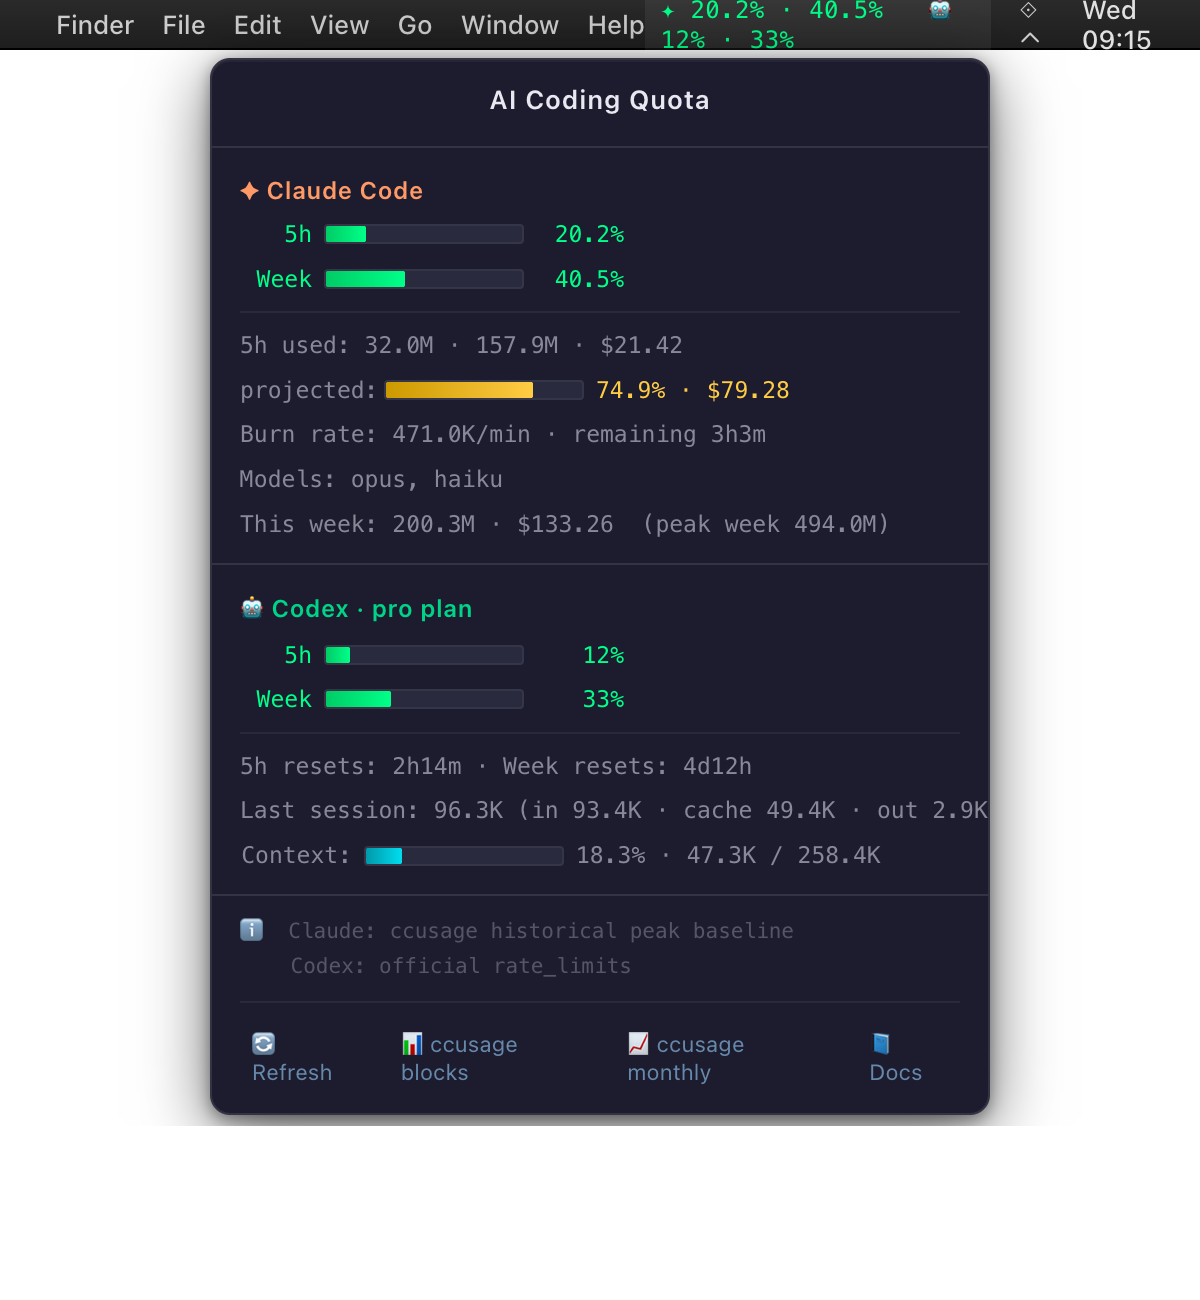
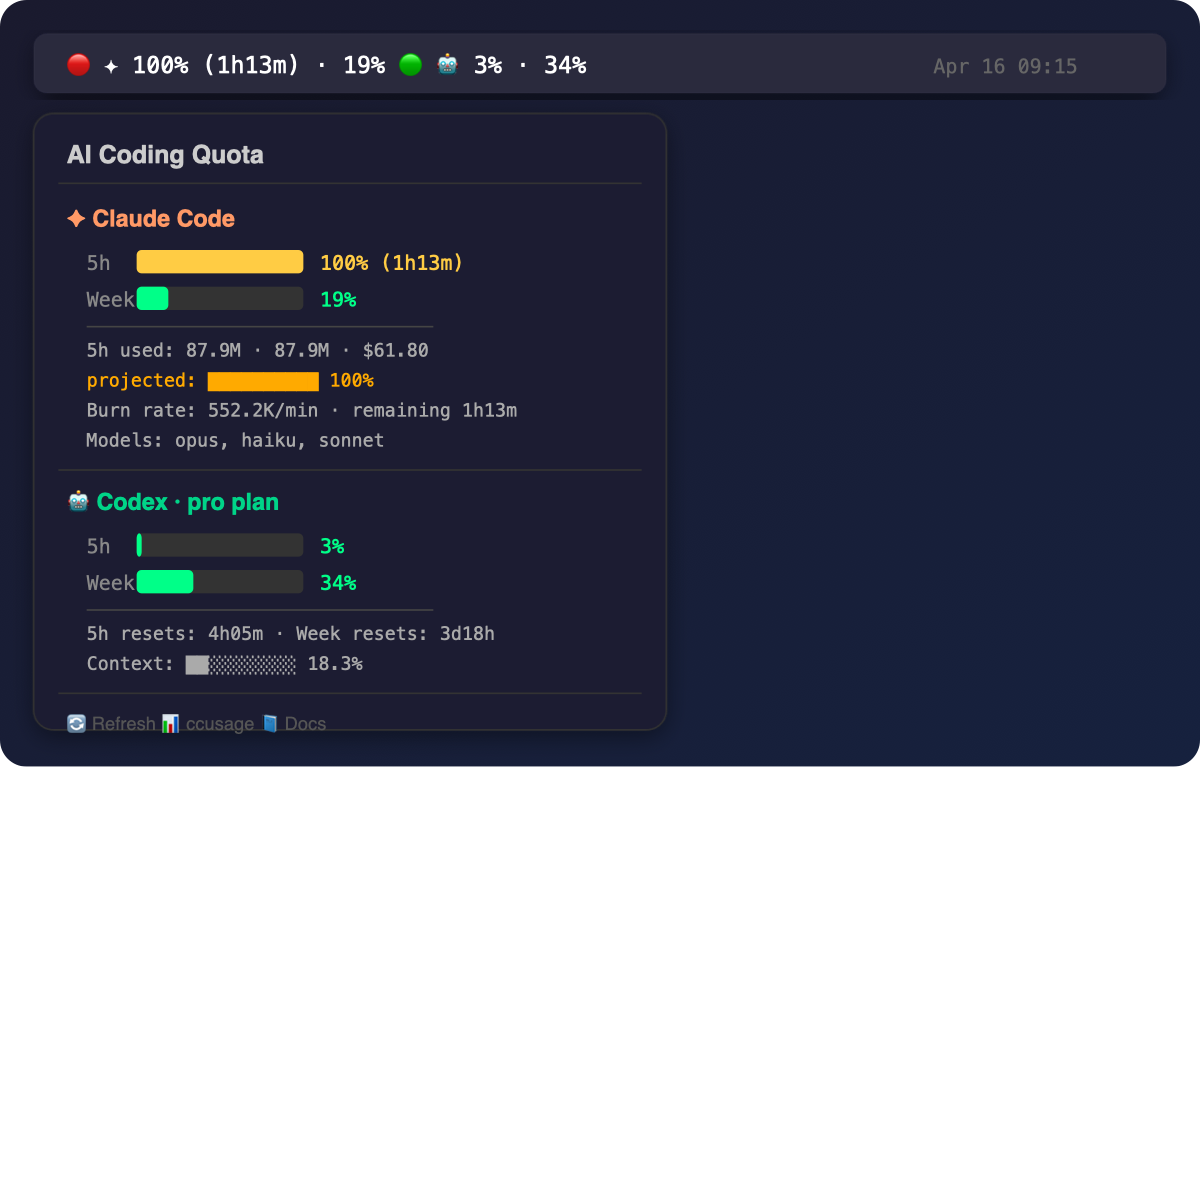
docs: refresh screenshot assets

diff --git a/screenshots/menubar.html b/screenshots/menubar.html
@@ -59,7 +59,7 @@
   .plugin-text {
     font-family: 'Menlo', 'Monaco', 'SF Mono', monospace;
     font-size: 12px;
-    color: #00ff88;
+    color: #ffffff;
     letter-spacing: 0.2px;
     background: rgba(255,255,255,0.06);
     padding: 1px 8px;
@@ -241,7 +241,7 @@
     </div>
   </div>
   <div class="menubar-right">
-    <span class="plugin-text">✦ 20.2% · 40.5%&nbsp;&nbsp;&nbsp;🤖 12% · 33%</span>
+    <span class="plugin-text">🔴 ✦ 100% (1h13m) · 19%&nbsp;&nbsp;&nbsp;🟢 🤖 3% · 34%</span>
     <span class="menubar-icons">⟐ ⌃</span>
     <span class="menubar-clock">Wed 09:15</span>
   </div>
@@ -261,32 +261,32 @@
     <div class="progress-row">
       <span class="progress-label">5h</span>
       <div class="progress-bar-track">
-        <div class="progress-bar-fill green" style="width: 20.2%"></div>
+        <div class="progress-bar-fill yellow" style="width: 100%"></div>
       </div>
-      <span class="progress-pct">20.2%</span>
+      <span class="progress-pct">100% (1h13m)</span>
     </div>
 
     <div class="progress-row">
       <span class="progress-label">Week</span>
       <div class="progress-bar-track">
-        <div class="progress-bar-fill green" style="width: 40.5%"></div>
+        <div class="progress-bar-fill green" style="width: 19%"></div>
       </div>
-      <span class="progress-pct">40.5%</span>
+      <span class="progress-pct">19%</span>
     </div>
 
     <div class="separator"></div>
 
-    <div class="row gray">5h used: 32.0M · 157.9M · $21.42</div>
+    <div class="row gray">5h used: 87.9M · 87.9M · $61.80</div>
     <div class="progress-row" style="color: #ffcc44;">
       <span class="progress-label" style="width: 66px; color: #888899;">projected:</span>
       <div class="progress-bar-track">
-        <div class="progress-bar-fill yellow" style="width: 74.9%"></div>
+        <div class="progress-bar-fill yellow" style="width: 100%"></div>
       </div>
-      <span class="progress-pct" style="width: auto;">74.9% · $79.28</span>
+      <span class="progress-pct" style="width: auto;">100% · $94.38</span>
     </div>
-    <div class="row gray">Burn rate: 471.0K/min · remaining 3h3m</div>
-    <div class="row gray">Models: opus, haiku</div>
-    <div class="row gray">This week: 200.3M · $133.26  (peak week 494.0M)</div>
+    <div class="row gray">Burn rate: 552.2K/min · remaining 1h13m</div>
+    <div class="row gray">Models: opus, haiku, sonnet</div>
+    <div class="row gray">This week: 256.2M · $204.98  (peak week 1.35B)</div>
 
     <div class="thick-separator"></div>
 
@@ -296,22 +296,22 @@
     <div class="progress-row">
       <span class="progress-label">5h</span>
       <div class="progress-bar-track">
-        <div class="progress-bar-fill green" style="width: 12%"></div>
+        <div class="progress-bar-fill green" style="width: 3%"></div>
       </div>
-      <span class="progress-pct">12%</span>
+      <span class="progress-pct">3%</span>
     </div>
 
     <div class="progress-row">
       <span class="progress-label">Week</span>
       <div class="progress-bar-track">
-        <div class="progress-bar-fill green" style="width: 33%"></div>
+        <div class="progress-bar-fill green" style="width: 34%"></div>
       </div>
-      <span class="progress-pct">33%</span>
+      <span class="progress-pct">34%</span>
     </div>
 
     <div class="separator"></div>
 
-    <div class="row gray">5h resets: 2h14m · Week resets: 4d12h</div>
+    <div class="row gray">5h resets: 4h05m · Week resets: 3d18h</div>
     <div class="row gray">Last session: 96.3K (in 93.4K · cache 49.4K · out 2.9K)</div>
     <div class="progress-row" style="color: #888899;">
       <span class="progress-label" style="width: 56px;">Context:</span>
